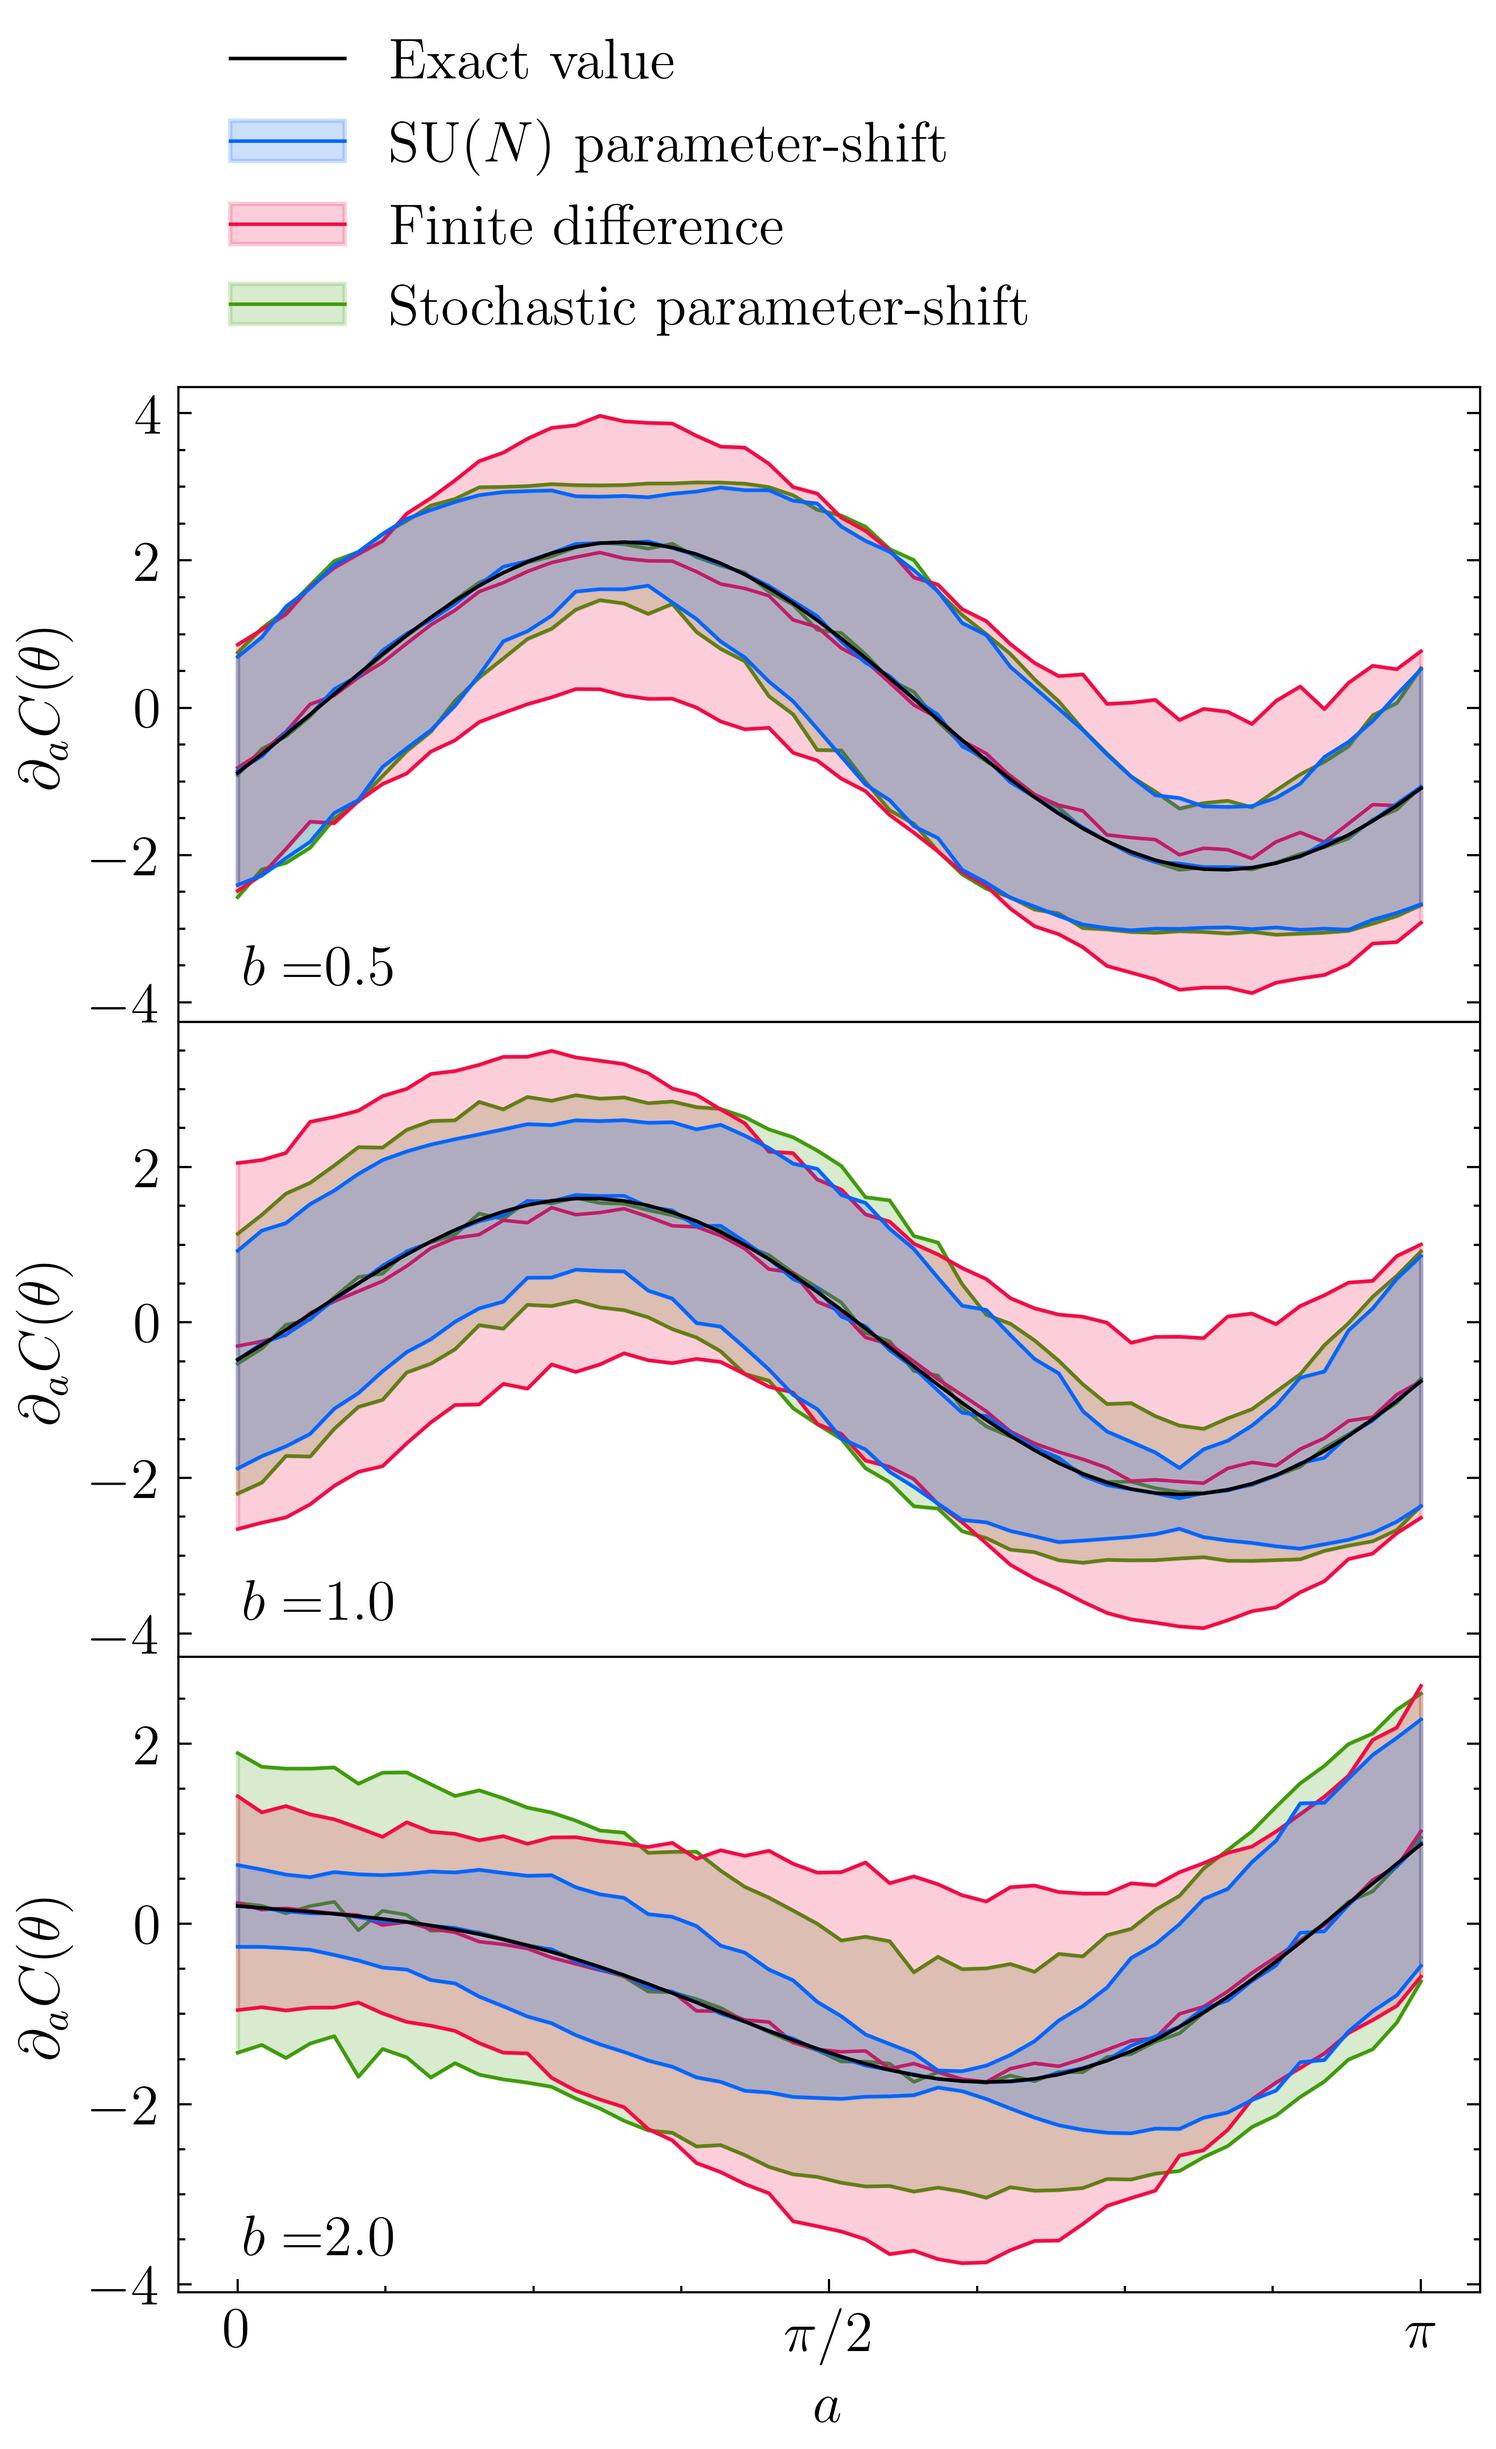
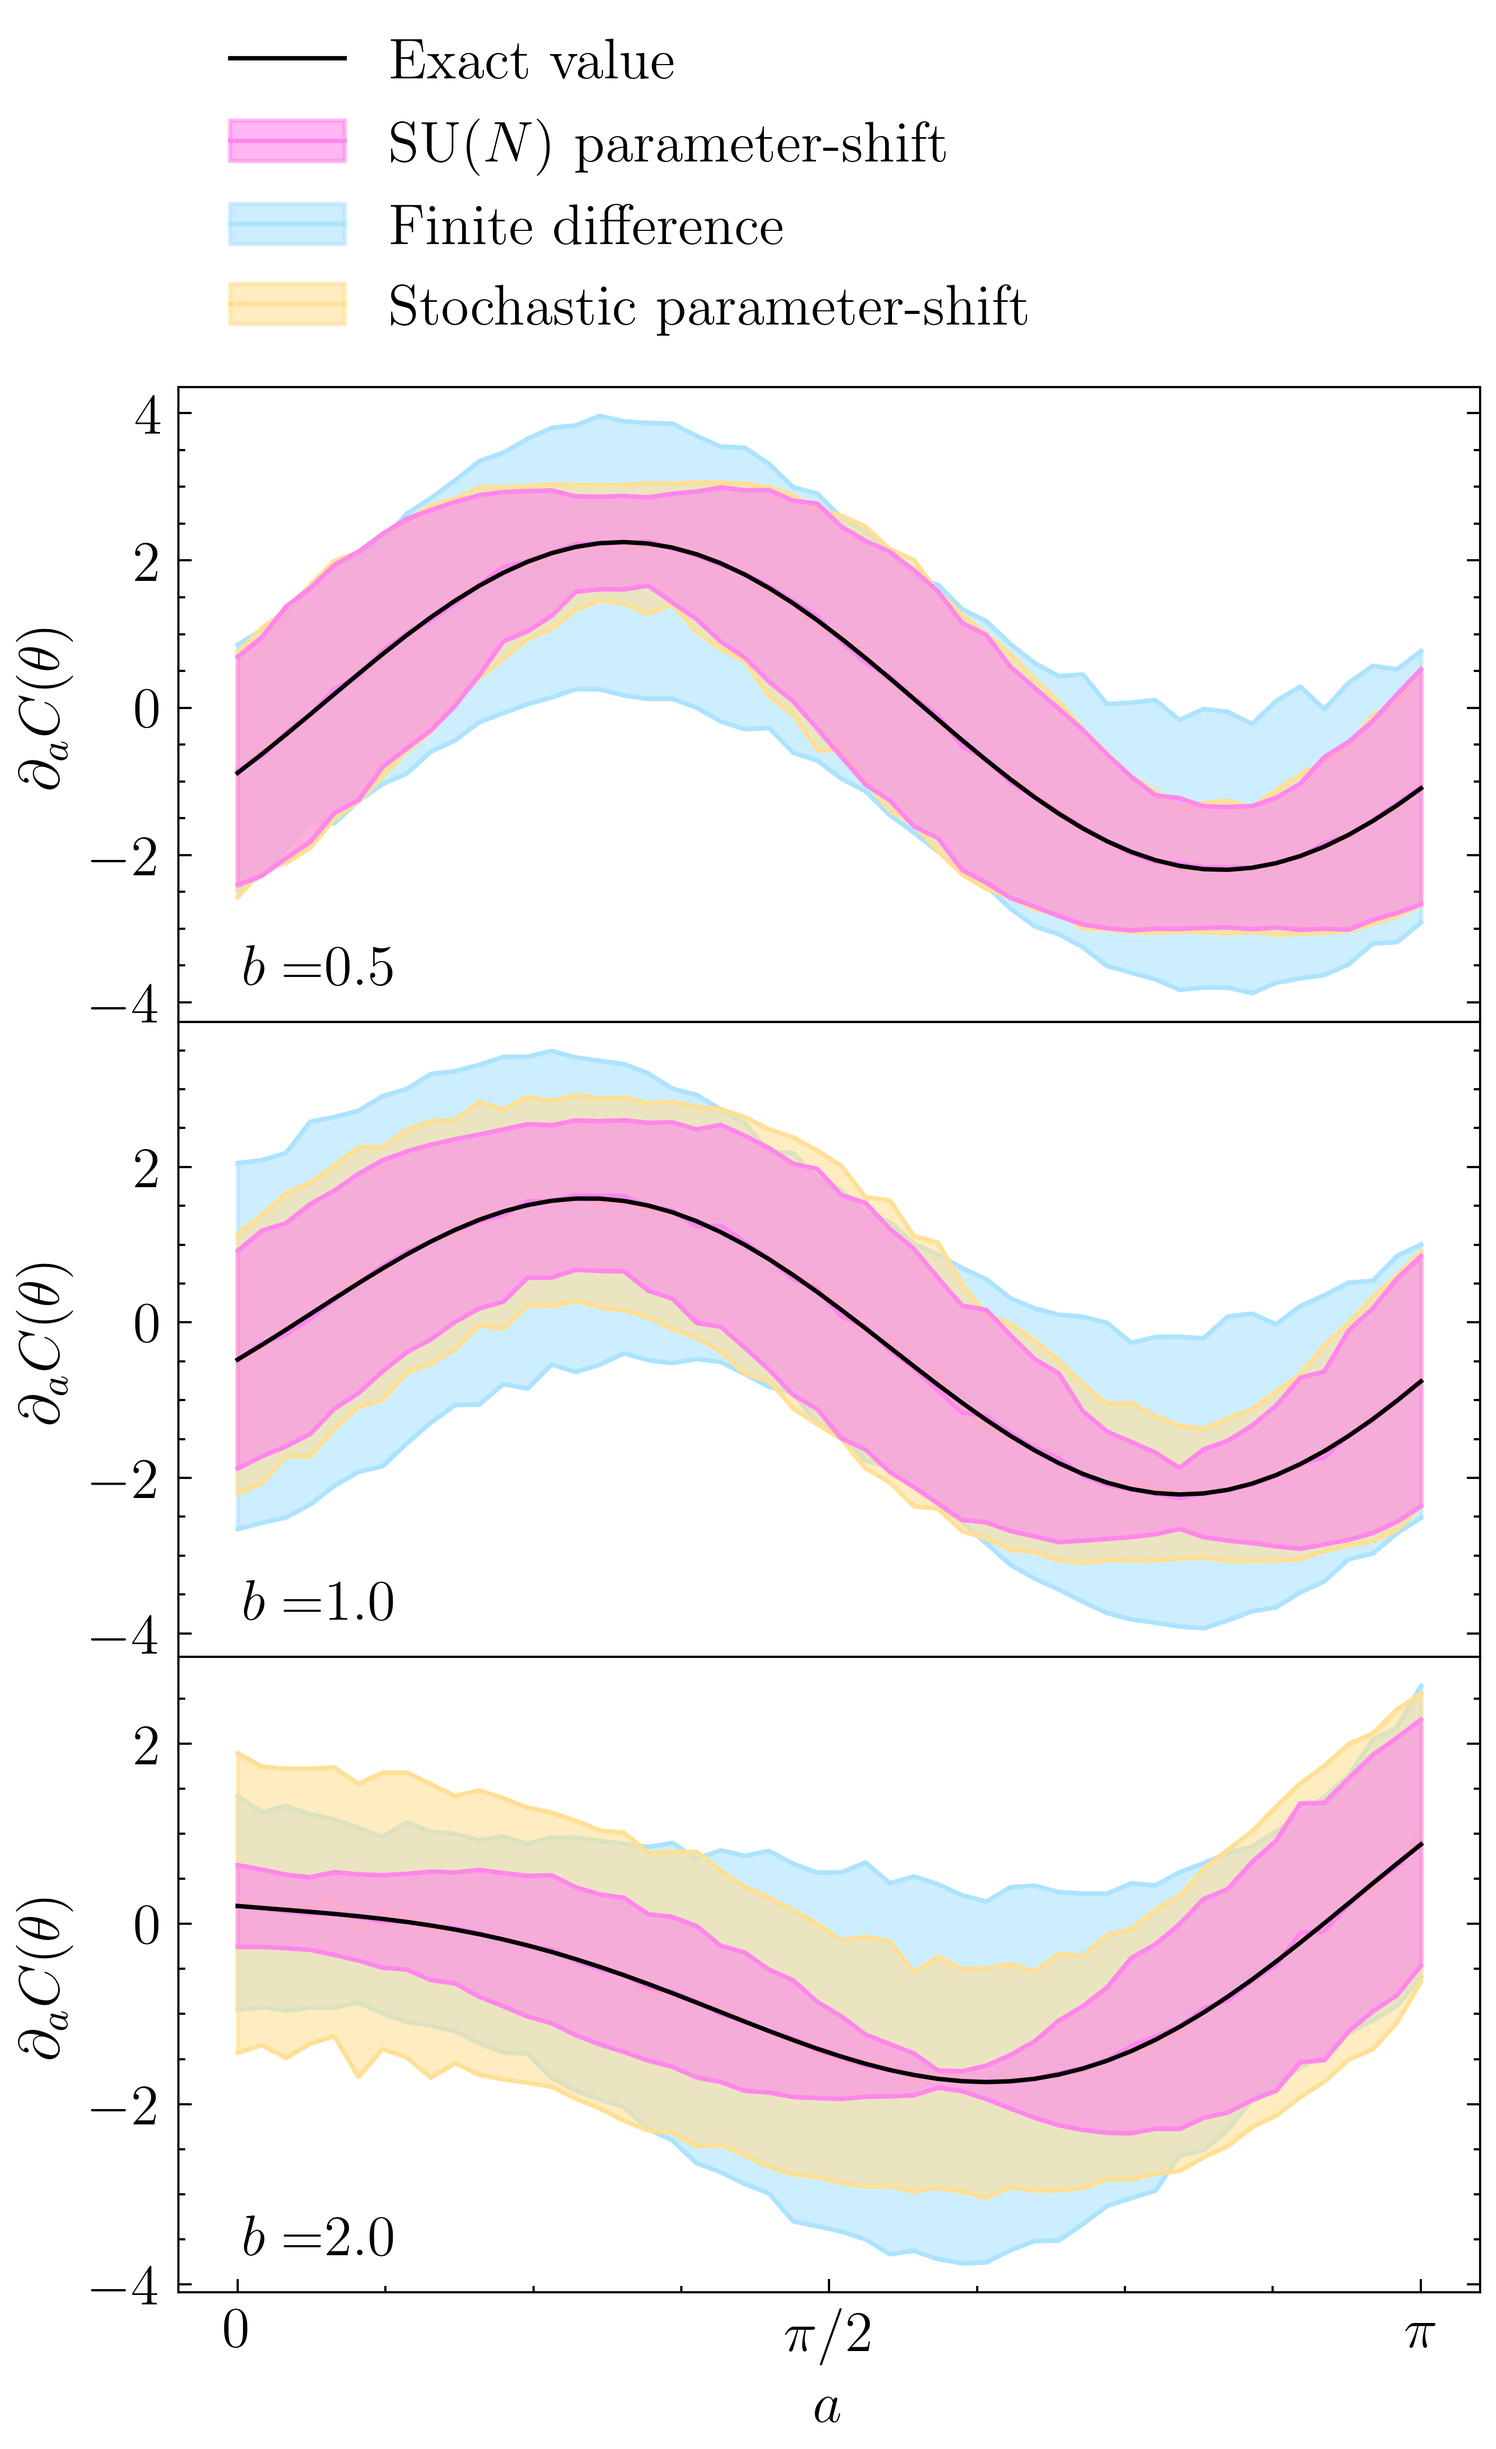
colors, text

diff --git a/demonstrations/tutorial_here_comes_the_sun.py b/demonstrations/tutorial_here_comes_the_sun.py
@@ -280,10 +280,10 @@ import matplotlib.pyplot as plt
 plt.rcParams.update({"font.size": 12})
 
 fig, ax = plt.subplots(1, 1, figsize=(6, 4))
-colors = ["#90CCFF", "#DF74AF", "#EED0B0"]
+colors = ["#ACE3FF", "#FF87EB", "#FFE096"]
 for num_samples, color in zip([2, 10, 100], colors):
     grads = [stochastic_parshift_grad(theta, num_samples) for _ in range(1000)]
-    ax.hist(grads, label=f"{num_samples} samples", alpha=0.8, color=color)
+    ax.hist(grads, label=f"{num_samples} samples", alpha=0.9, color=color)
 ylim = ax.get_ylim()
 ax.plot([exact_grad] * 2, ylim, ls="--", c="k", label="Exact")
 ax.set(xlabel=r"$\partial_{SPS,\theta_2}C(\theta)$", ylabel="Frequency", ylim=ylim)
@@ -297,19 +297,19 @@ plt.show()
 # for more splitting times.
 #
 # On quantum hardware, all measurement results are statistical by nature anyways.
-# So how does this stochasticity combine with the exact and stochastic nature
-# of the three differentiation methods? We will not go into detail here but refer
+# So how does this stochasticity combine with the
+# three differentiation methods? We will not go into detail here but refer
 # to [#wiersema]_ which shows that the custom differentiation rule proposed in the
 # main text leads to the lowest mean squared error. For a single-qubit circuit
-# similar to the one above, the derivative and expected variance are shown in the
-# following plot from the manuscript:
+# similar to the one above, but with the single gate :math:`U(\bm{\theta})=\exp(iaX+ibY)`,
+# the derivative and its expected variance are shown in the following plot from the manuscript:
 #
 # .. figure:: ../demonstrations/here_comes_the_sun/sampled_grad.png
 #    :align: center
 #    :width: 50%
 #
 # As we can see, the custom :math:`\mathrm{SU}(N)` parameter-shift rule produces the
-# gradient estimates with the smallest variance.
+# gradient estimates with the smallest variance. For small values
 # The central difference gradient shown here was obtained using the shift
 # scale :math:`\delta=0.75` as well. As we can see, this suppresses the variance down to
 # a level comparable to the one for the shift rule derivatives. As shown in App. F3 of
@@ -324,8 +324,8 @@ plt.show()
 # based on the ``qml.SpecialUnitary`` gate discussed above to other approaches that fully
 # parametrize the special unitary group for the respective number of qubits.
 # In particular, we will compare ``qml.SpecialUnitary`` to standard decompositions from the
-# literature that parametrize :math:`\mathrm{SU}(N)` with elementary gates, as well as to a sequence
-# of Pauli rotation gates that also allows to create any special unitary.
+# literature that parametrize :math:`\mathrm{SU}(N)` with elementary gates, as well as to a
+# sequence of Pauli rotation gates that also allows to create any special unitary.
 # Let us start by defining the decomposition of a two-qubit unitary.
 # We choose the decomposition, which is optimal but not unique, from [#vatan]_.
 # The Pauli rotation sequence is available in PennyLane
@@ -407,9 +407,7 @@ def circuit(params, operation=None):
     for params_block in params:
         for i, params_layer in enumerate(params_block):
             for j, params_op in enumerate(params_layer):
-                wires_op = [
-                    w % num_wires for w in range(locality * j + i, locality * (j + 1) + i)
-                ]
+                wires_op = [w % num_wires for w in range(locality * j + i, locality * (j + 1) + i)]
                 operation(params_op, wires_op)
     return qml.expval(H)
 
